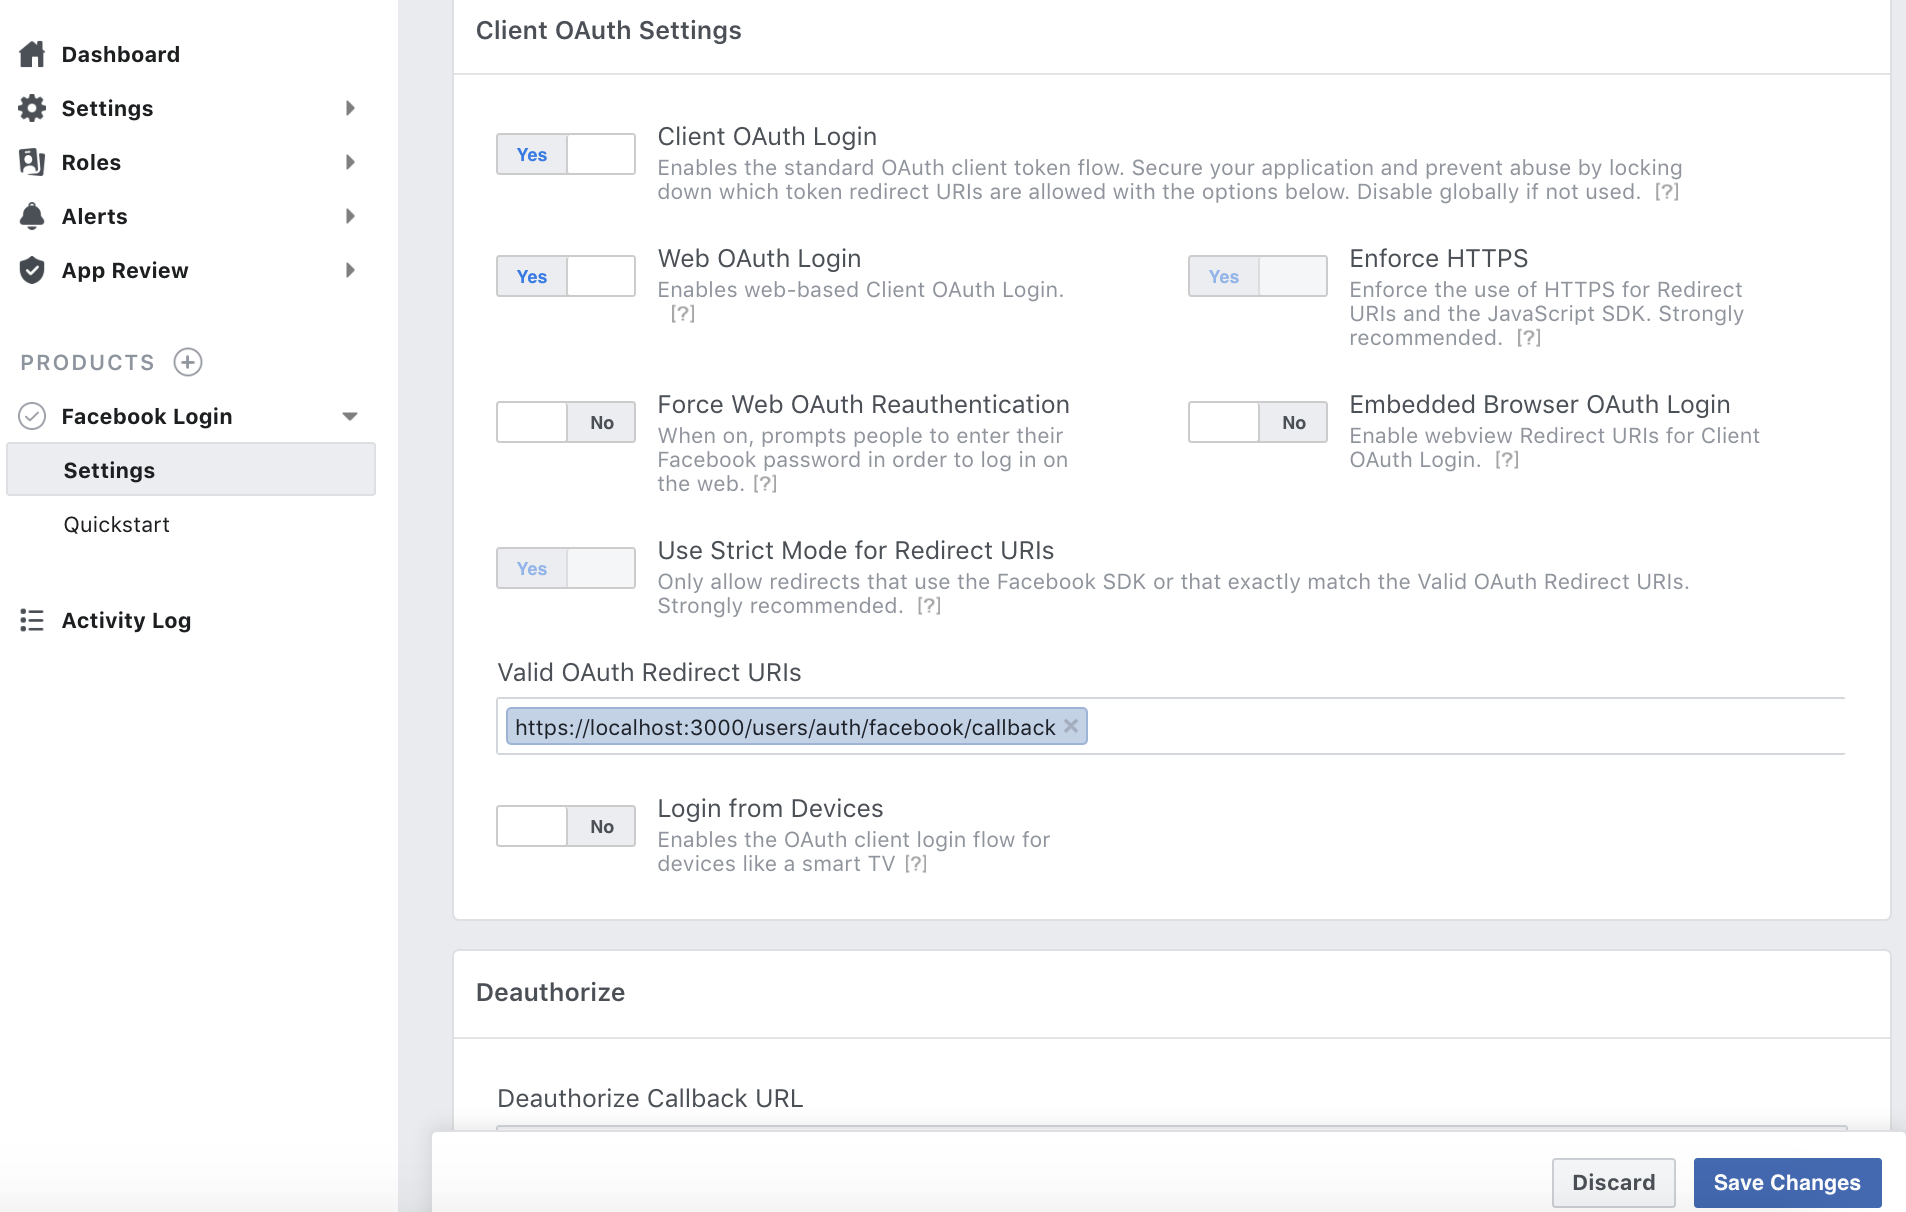
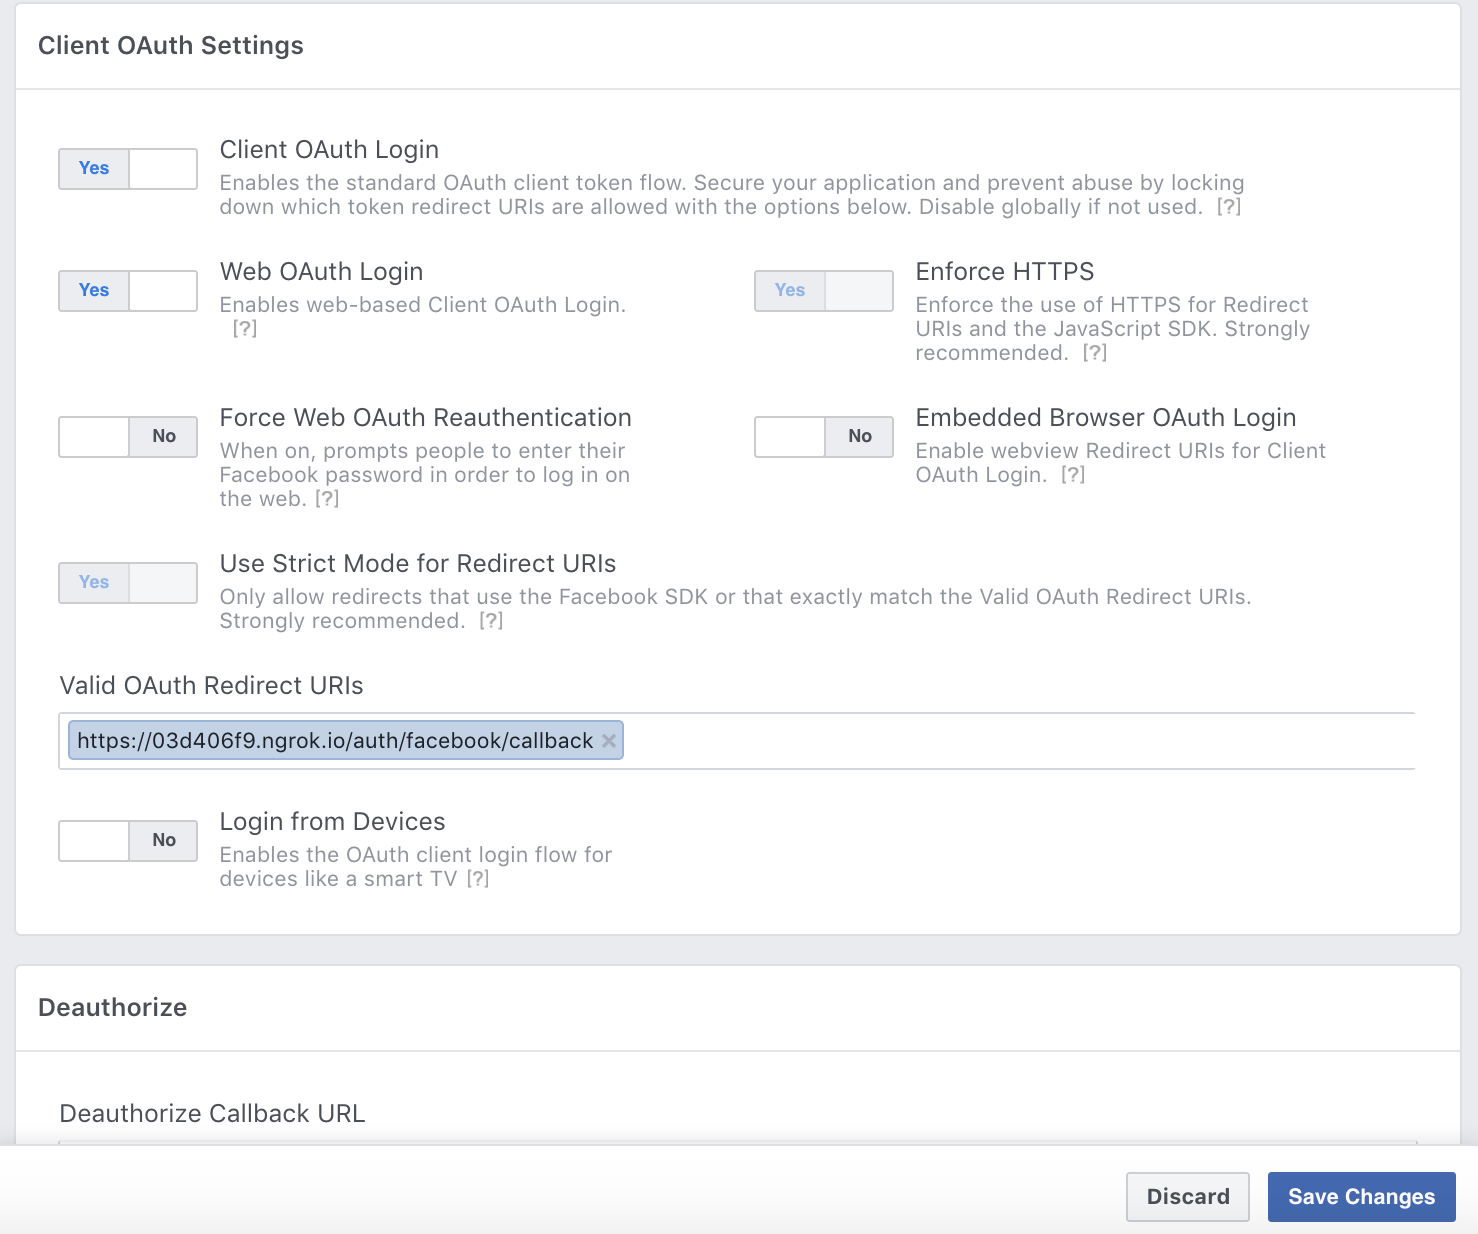
doc: updates and fixes SettingUpFacebookLogin.md
While testing, It turned out the doc needed fixes and more to be added.
This commit updates the doc.

diff --git a/SettingUpFacebookLogin.md b/SettingUpFacebookLogin.md
@@ -2,10 +2,17 @@
 
 ### Facebook as an OAuth provider
 
-Among many OAuth providers, this app chooses Facebook.
-One of the reasons is Omniauth support. Additionally, this app uses GraphQL and React,
-both of which are Facebook technologies. It's easy to guess using Facebook OAuth with
-those would be easier.
+Among many OAuth providers, this app chooses Facebook as the first OAuth provider.
+There's no specific reason of a choice here. Only small one would be 
+this app uses GraphQL and React. Both of those are Facebook technologies.
+It may be easy to integrate Facebook OAuth with them. 
+
+
+Although how to set up on the provider side varies, Ruby/JavaScript sides are
+expected to stay the same as other OAuth providers. Actually, Ruby code is almost identical
+even though the providers are different. It's easy to support multiple OAuth providers
+once an authentication is confirmed to work.
+
 
 Facebook's OAuth is called __Facebook Login__. This document explains steps to how to
 setup Facebook Login.
@@ -23,17 +30,19 @@ since Facebook often changes the way to setup and policies.
     To setup Facebook login, people should be a Facebook developer. If not yet,
     register.
     
-    Log in Facebook if not yet.
+    Additionally, log in Facebook if not yet.
 
 3. Create an App
 
-    1. Click "__My App__ v", then "+ __Add New App__".
+    1. Click __My App__.
        
         ![My App](./docs/images/my_app_button.png)
+
+    2. Choose __Add New App__ from a dropdown menu.
        
         ![Add New App](./docs/images/add_new_app_button.png)
        
-    2. Input Display Name and Contact Email, and click "Create App ID" button.
+    2. Input Display Name and Contact Email, and click __Create App ID__ button.
 
         ![Create New App ID](./docs/images/create_new_app_id.png)
        
@@ -43,32 +52,220 @@ since Facebook often changes the way to setup and policies.
 
 4. Setup the App
 
-    For now, the App has been created and people are navigated to the "Select a Scenario"
+    For now, the App has been created, and the screen is navigated to the "Select a Scenario"
     page.
     
-    1. Choose "Integrate Facebook Login" and click "Confirm" button.
+    1. Choose __Integrate Facebook Login__ and click __Confirm__ button.
 
         ![Select Scenario](./docs/images/select_scenario.png)
 
-    2. Click "Show" button at App Secret. Take memo of both App ID and Secret.
+    2. Click __Show__ button in the "App Secret" section. Take memo of both App ID and Secret.
 
         ![App Secret](./docs/images/app_secret.png)
+ 
+5. Install and Run __ngrok__ (for testing)
 
-    3. Go to the bottom of the page and click "+ Add Platform" button.
-
-        ![Add Platform](./docs/images/add_platform_button.png)
-
-    4. Select Website.
+    OAuth needs callback URL which should be reachable from the OAuth provider.
+    If the app is live at somewhere on the Internet, say AWS, there's no need
+    to use ngrok. However, this app is still under development/test on a localhost,
+    ngrok is used here.
     
-        ![Select Platform](./docs/images/select_platform.png)
+    [__ngrok__](https://ngrok.com) is easy to install, setup, and also easy to run
+    forwarding application. It forwards HTTPS as well, which is feasible to test
+    Facebook login. Facebook requires HTTPS for the callback url, so ngrok is useful.
+    
+    1. Download and Install
+    
+        Go to [ngrok.com](https://ngrok.com) and login or signup. Then following
+        the instruction, download the archive and extract (just extract, no need to
+        'install').
+        
+    2. Setup and Run ngrok
+    
+        Go to the directory where `ngrok` executable exists.
+        After login to the ngrok account, the authtoken can be found easily.
+        Since Rails uses 3000 by default, 3000 is set to run ngrok.
+        
+        ```bash
+        ./ngrok authtoken YOURAUTHTOKEN
+        ./ngrok http 3000
+        ```
+        
+        When ngrok starts running, it shows the info something like:
+        
+        ```bash
+        ngrok by @inconshreveable                                                          (Ctrl+C to quit)
+        
+        Session Status                online
+        Account                       Yoko Harada (Plan: Free)
+        Version                       2.2.8
+        Region                        United States (us)
+        Web Interface                 http://127.0.0.1:4040
+        Forwarding                    http://03d406f9.ngrok.io -> localhost:3000
+        Forwarding                    https://03d406f9.ngrok.io -> localhost:3000
+        
+        Connections                   ttl     opn     rt1     rt5     p50     p90
+                                      0       0       0.00    0.00    0.00    0.00
+        ```
+        
+        Take a memo of HTTPS fowarding URL.
 
-    4. Input Site URL, "http://localhost:3000/", and click "Save Changes" button.
+6. Setup Facebook Login
 
-        ![Site URL](./docs/images/site_url.png)
+    Get back to Facebook App setting website.
 
-    5. Click Facebook Login on the left pane, then click "Settings" tab.
+    1. Click Facebook Login on the left pane, then click "Settings" tab.
 
-    6. Input "https://localhost:3000/users/auth/facebook/callbak" in the
+    2. Set __Valid OAuth redirect URIs__
+
+        Now, a public HTTPS URL is proved by ngrok, so a callback path is
+        the next to choose. Normally, Rails + devise/omniauth combination uses
+        `/users/auth/facebook/callback`. However, before going further, let's
+        test OAuth by a simple way.
+
+        The `omniauth-facebook` gem has an example by Sinatra,
+        [https://github.com/mkdynamic/omniauth-facebook/tree/master/example](https://github.com/mkdynamic/omniauth-facebook/tree/master/example).
+        This is a good example to test. In this case, the callback is `/auth/facebook/callback`.
+
+        Input "https://03d406f9.ngrok.io/auth/facebook/callbak" in the
         Valid OAuth redirect URIs, then click "Save Changes".
 
         ![Client Auth Settings](./docs/images/client_auth_setting.png)
+
+7. Create a test user
+
+    Facebook allows a developer to create users just for testing. The test user has
+    limitations, but it's nice to check the app works.
+    
+    1. Click "Roles", then "Test Users" tab.
+    
+    2. Add a new user or set a password of existing user
+    
+        By default, one test user is there. To log in to Facebook as the default test user,
+        the password should be set. Click __Edit__ button and choose "Change the name or
+        password for this test user".
+    
+        ![Test Users](./docs/images/test_user.png)
+
+    3. Input the password and click __Save__ button
+
+        ![Password setting](./docs/images/change_test_user_password.png)
+
+    4. (Optional) Log in to Facebook as a test user
+    
+        Log in to Facebook using the test user's email and password.
+        It's good to use Incognito or different web browser. Since one browser
+        is for setting things up for the app with the real account.
+        Logging out, deleting cookies, etc. confuse testing.
+
+8. Create a test Sinatra app
+
+    This is just a test, so the test Sinatra app can be created in any directory.
+    To put together in the same repo, all are in `example` directory.
+    
+    - Gemfile
+
+        ```ruby
+        # frozen_string_literal: true
+        
+        source "https://rubygems.org"
+        
+        git_source(:github) {|repo_name| "https://github.com/#{repo_name}" }
+        
+        gem 'sinatra'
+        gem 'sinatra-reloader'
+        gem 'omniauth-facebook'
+        gem 'dotenv'
+        ```
+        
+        Run `bundle install`.
+
+    - Create `app.rb`
+        ```ruby
+        require 'sinatra'
+        require 'sinatra/reloader'
+        require 'yaml'
+        
+        set :run, false
+        set :raise_errors, true
+        set :protection, except: [:json_csrf]
+        
+        get '/server-side' do
+          redirect '/auth/facebook'
+        end
+        
+        get '/auth/:provider/callback' do
+          content_type 'application/json'
+          MultiJson.encode(request.env)
+        end
+        ```
+
+    - Create `config.ru`
+        ```ruby
+        require 'bundler/setup'
+        require 'dotenv/load'
+        require 'omniauth-facebook'
+        require './app.rb'
+        
+        use Rack::Session::Cookie, secret: 'abc123'
+        
+        use OmniAuth::Builder do
+          provider :facebook, ENV['FB_APP_ID'], ENV['FB_APP_SECRET']
+        end
+        
+        run Sinatra::Application
+        ```
+
+    - Create `.env` in the same directory as `config.ru`
+
+        Write the App ID and App Secret previously made memo.
+        ```ruby
+        FB_APP_ID=YOURAPPID
+        FB_APP_SECRET=YOURAPPSECRET
+        ```
+
+9. Test OAuth
+
+    1. Run Sinatra app
+    
+        Since __ngrok__ was set up to forward port 3000, run Sinatra on port 3000.
+        ```bash
+        rackup -p 3000
+        ```
+
+    2. Open Incognito or another browser
+    
+    3. Request `http://localhost:3000/servier-side`
+    
+    4. Log in to Facebook as a test user (if not yet logged in)
+    
+        ![test user login](./docs/images/test_user_login.png)
+
+    5. Approve the OAuth, "Continue as ACCOUNT"
+
+        ![continue as open](./docs/images/continue_as_account.png)
+
+    6. Check the returned status
+    
+        The browser should show a bunch of parameters. On the bottom area, "omniauth.auth"
+        key is there. This is the info for Rails to do some stuff.
+        
+        ![omniauth.auth parameters](./docs/images/omniauth.auth_params.png)
+
+10. Check App on Facebook
+
+    On the test user's facebook account, the app can be checked whether it is used.
+    
+    1. Go to the test user's facebook account and click triangle button on the right end.
+    
+        ![account setting dropdown](./docs/images/account_setting_dropdown.png)
+
+    2. Click "Settings", then "Apps and Websites" on the left pane.
+    
+        ![apps and websites](./docs/images/apps_websites.png)
+
+    3. Re-test
+    
+        The page should have the icon with the app name. To test again,
+        remove the app and request `http://localhost:3000/server-side` again.
+        Reload the apps and websites page, then the app will appear again. 
